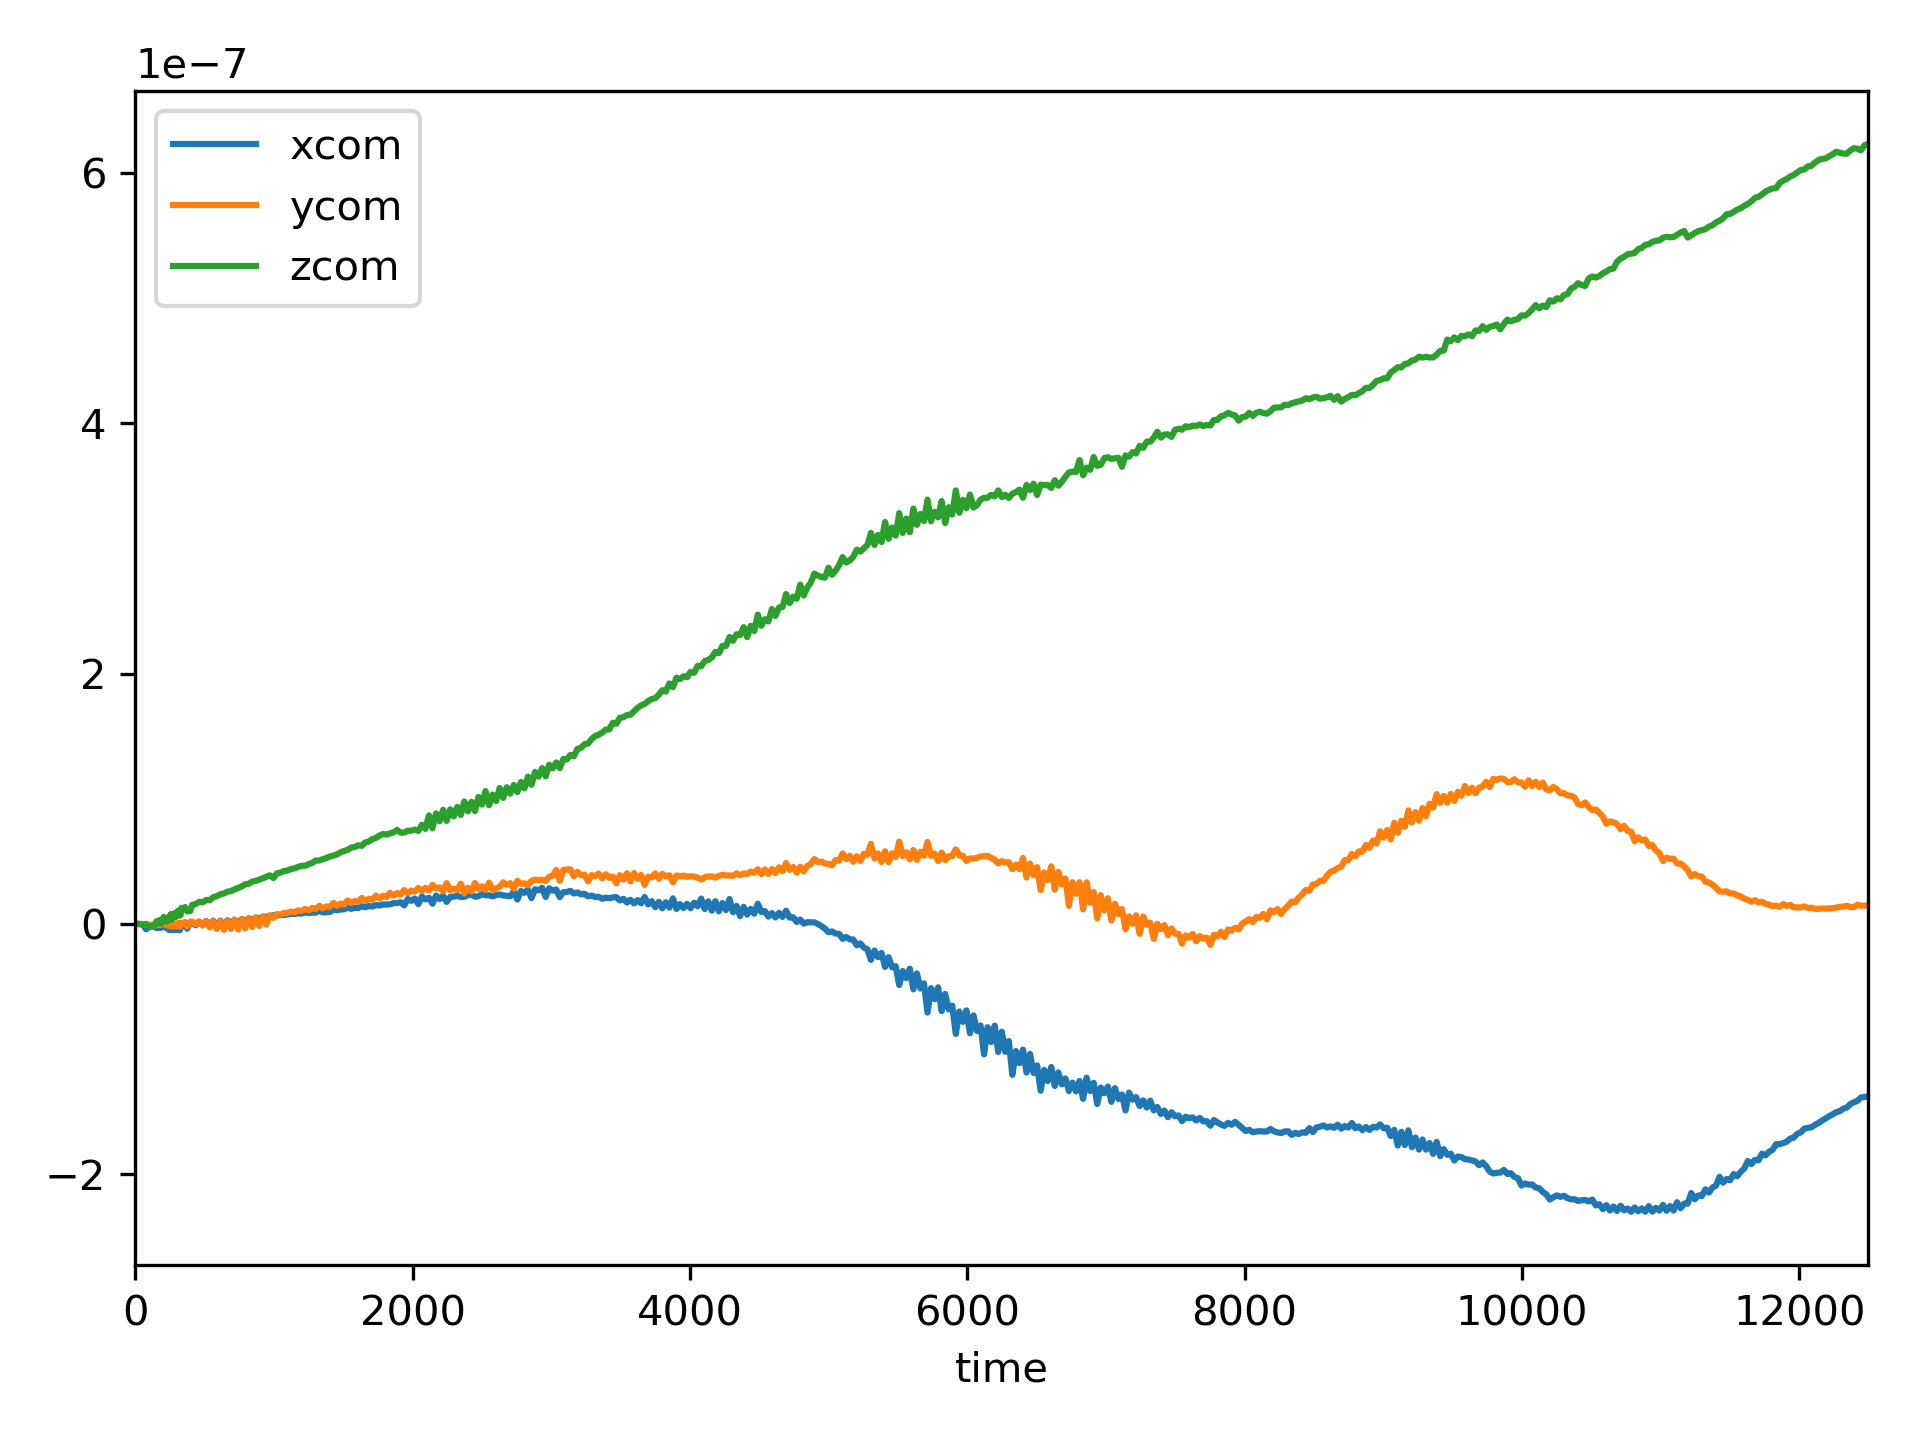
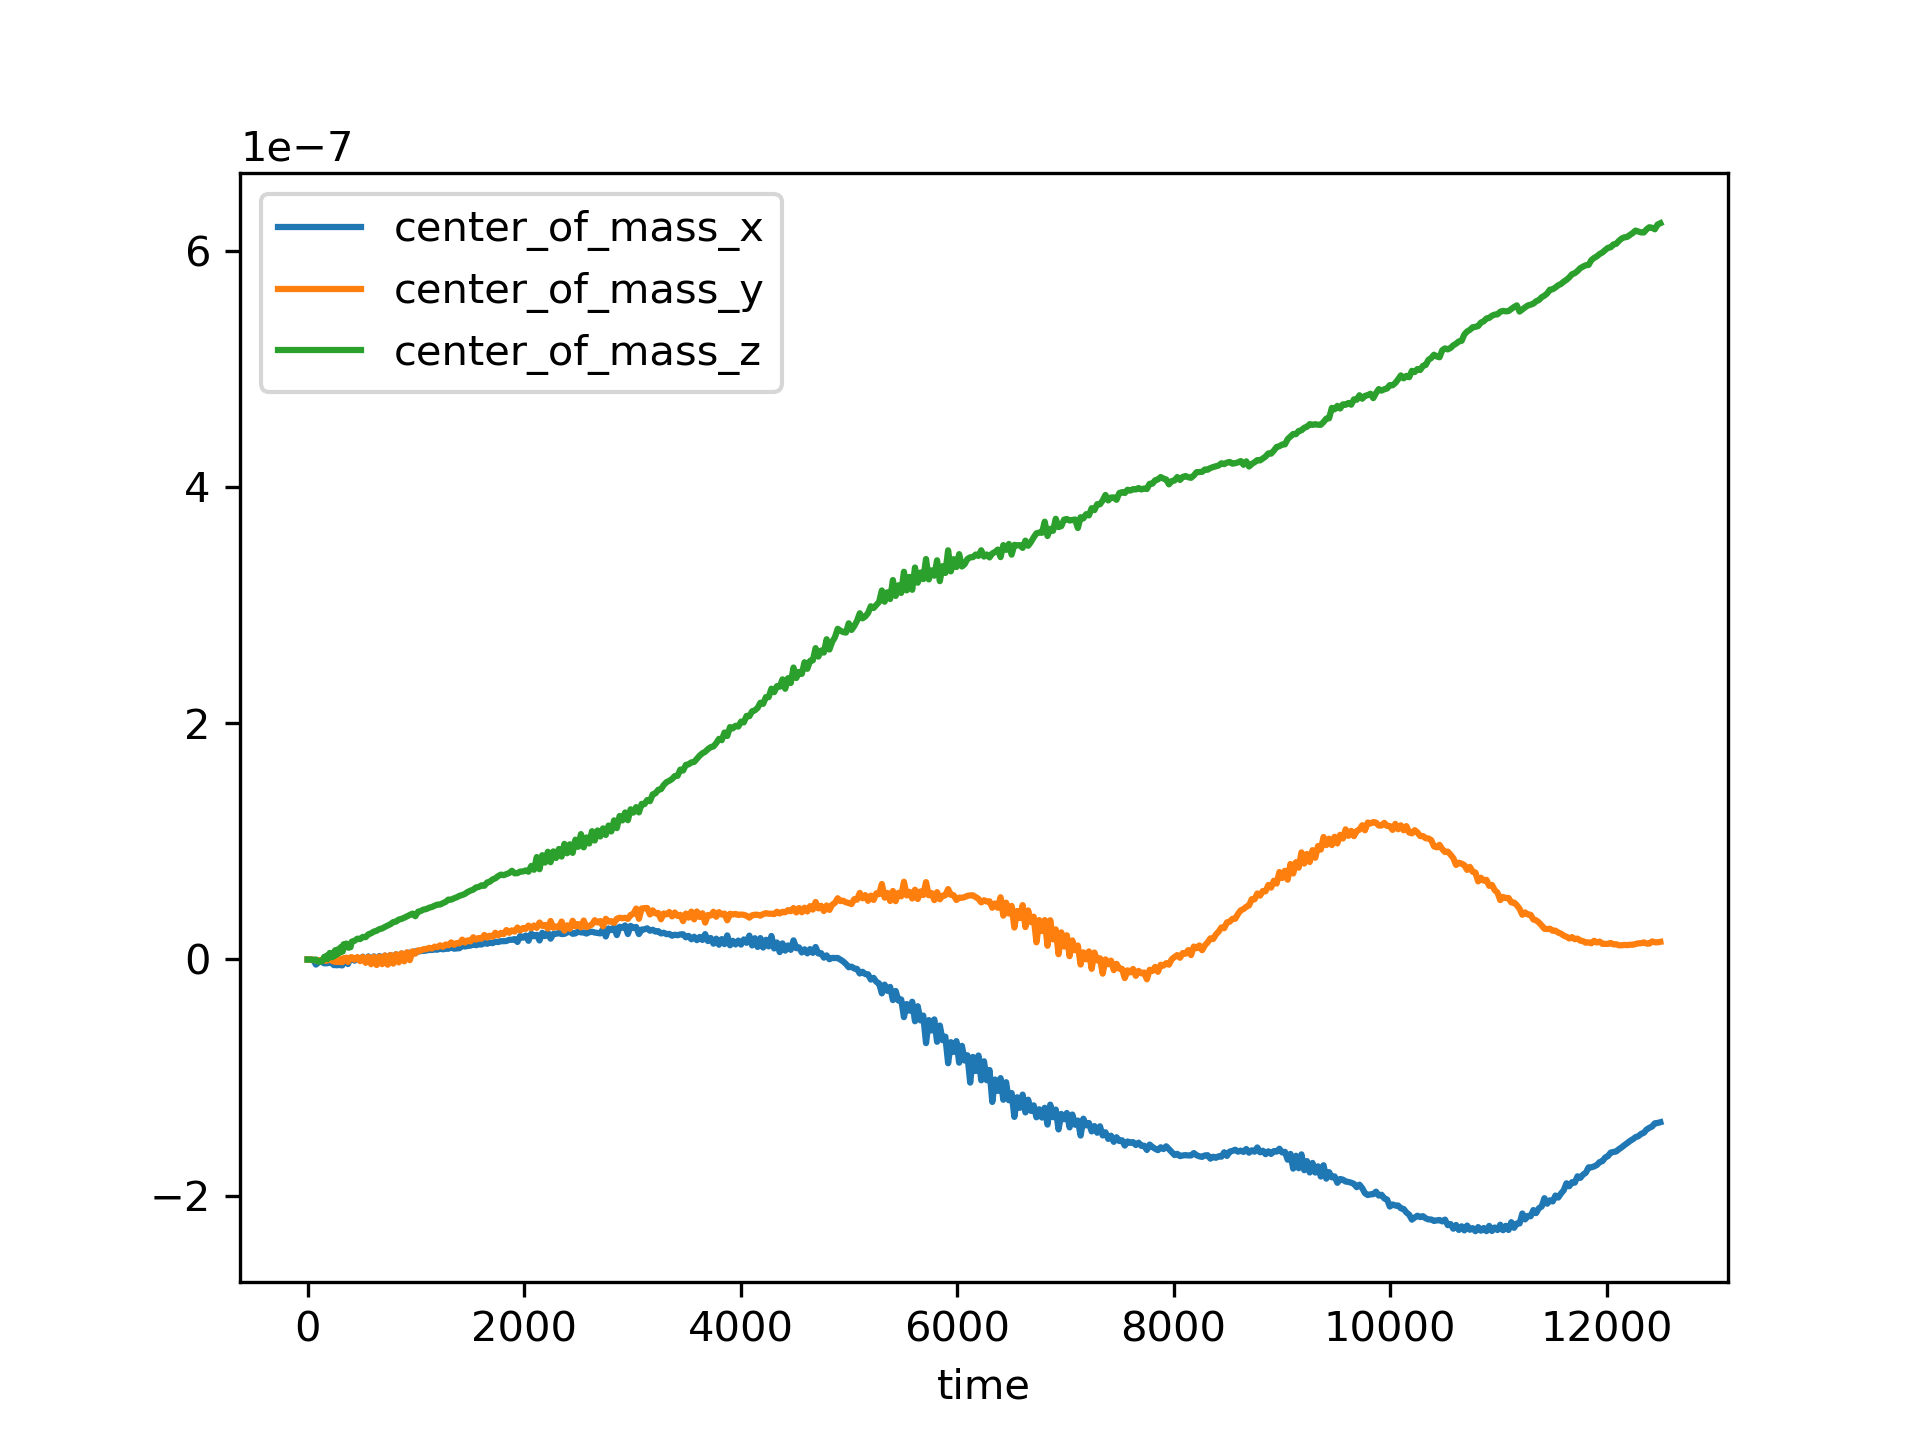
Update documentation

diff --git a/docs/source/overview.rst b/docs/source/overview.rst
@@ -92,37 +92,20 @@ To see what arrays are loaded into memory you can use the
     ('position',)
 
 Use :py:meth:`available_arrays` to see what arrays are available. Some of these
-arrays are stored on file, while others are computed as required from functions
-defined in the analysis module.
+arrays are stored on file, while others are computed as required.
 
 .. code-block:: pycon
 
     >>> snap.available_arrays()
-    ('angular_momentum',
-     'angular_velocity',
-     'azimuthal_angle',
-     'density',
-     'dust_density',
-     'dust_fraction',
-     'dust_mass',
-     'eccentricity',
-     'gas_density',
-     'gas_mass',
-     'inclination',
-     'kinetic_energy',
+    ('density',
+     'dust_to_gas_ratio',
      'mass',
-     'momentum',
-     'polar_angle',
      'position',
      'pressure',
-     'radial_distance',
-     'radial_velocity',
-     'semi_major_axis',
      'smoothing_length',
      'sound_speed',
-     'specific_angular_momentum',
-     'specific_kinetic_energy',
      'stopping_time',
+     'sub_type',
      'timestep',
      'type',
      'velocity',
@@ -271,7 +254,7 @@ You can plot columns with the pandas plotting interface.
 
 .. code-block:: pycon
 
-    ev.plot('time', ['xcom', 'ycom', 'zcom'])
+    ev.plot('time', ['center_of_mass_x', 'center_of_mass_y', 'center_of_mass_z'])
 
 The previous code produces the following figure.
 
@@ -312,22 +295,26 @@ For example, we can change the colorbar limits.
 
 .. code-block:: pycon
 
-    >>> ax.images[0].set_clim(vmin=0.0e-8, vmax=2.5e-8)
+    >>> ax.images[0].set_clim(vmax=1.5e-8)
 
 Alternatively, you can pass keyword arguments to the matplotlib functions. For
 example, we set the colormap to 'gist_heat' and set the colorbar minimum and
-maxiumum.
+maxiumum. In addition, we set the extent, i.e. the x- and y-limits.
 
 .. code-block:: pycon
 
     >>> plonk.visualize.plot(
     ...     snap=snap,
     ...     quantity='density',
-    ...     extent=(-150, 150, -150, 150),
+    ...     extent=(20, 120, -50, 50),
     ...     cmap='gist_heat',
-    ...     vmin=0.0e-8,
+    ...     vmin=1.0e-8,
     ...     vmax=2.5e-8,
     ... )
+
+.. figure:: _static/density_zoom.png
+
+    The column density zoomed around the planet.
 
 More fine-grained control can be achieved by using the full details of
 :py:func:`visualize.plot`. See the API for more details.
@@ -423,14 +410,8 @@ After calling :py:meth:`extra_quantities`:
      'angular_velocity',
      'azimuthal_angle',
      'density',
-     'dust_density',
-     'dust_fraction',
-     'dust_mass',
      'dust_to_gas_ratio',
      'eccentricity',
-     'gas_density',
-     'gas_fraction',
-     'gas_mass',
      'inclination',
      'keplerian_frequency',
      'kinetic_energy',
@@ -447,7 +428,6 @@ After calling :py:meth:`extra_quantities`:
      'smoothing_length',
      'sound_speed',
      'specific_angular_momentum',
-     'specific_kinetic_energy',
      'stokes_number',
      'stopping_time',
      'sub_type',
@@ -461,8 +441,8 @@ You can create a new, derived array on the particles as follows.
 
 .. code-block:: pycon
 
-    >>> snap['r'] = np.sqrt(snap['x'] ** 2 + snap['y'] ** 2)
-    >>> snap['r']
+    >>> snap['rad'] = np.sqrt(snap['x'] ** 2 + snap['y'] ** 2)
+    >>> snap['rad']
     array([ 55.41064337, 133.88013245, 120.11389861, ..., 121.38944087,
             92.29871306, 139.68717104])
 
@@ -492,6 +472,7 @@ method accessing an array returns dimensionless quantities as pure NumPy arrays.
 
 .. code-block:: pycon
 
+    >>> snap = plonk.load_snap(filename)
     >>> snap['x']
     array([ -24.69953214, -108.99243136,  -51.22218782, ...,   93.296599  ,
              63.75108128,    8.11639008])
@@ -530,9 +511,11 @@ module.
 
 .. code-block:: pycon
 
+    >>> snap = plonk.load_snap(filename)
     >>> prof = plonk.load_profile(snap, radius_min=10, radius_max=200)
     >>> prof
-    <plonk.Profile: 100 bins>
+    <plonk.Profile "disc_00030.h5">
+
 
 To see what profiles are loaded and what are available use the
 :py:meth:`loaded_profiles` and :py:meth:`available_profiles` methods.
@@ -603,7 +586,9 @@ them into the DataFrame.
 
 .. code-block:: pycon
 
+    >>> snap.extra_quantities()
     >>> profiles = (
+    ...    'radius',
     ...    'angular_momentum_phi',
     ...    'angular_momentum_theta',
     ...    'surface_density',
@@ -613,20 +598,20 @@ them into the DataFrame.
     ...     prof[p]
     >>> df = prof.to_dataframe(columns=profiles)
     >>> df
-        angular_momentum_phi  angular_momentum_theta  surface_density  scale_height
-    0              -2.816044                0.021775     1.430097e-09      0.114181
-    1              -2.779819                0.041433     3.224447e-09      0.320315
-    2               0.328625                0.047102     4.576087e-09      0.442617
-    3               2.992063                0.050624     5.793719e-09      0.560383
-    4               1.888552                0.053376     7.333067e-09      0.670619
-    ..                   ...                     ...              ...           ...
-    95             -1.601260                0.143154     3.513620e-10     24.574487
-    96              1.172109                0.150343     3.155834e-10     26.160013
-    97              1.802767                0.145982     2.782487e-10     25.658521
-    98             -2.236464                0.145009     2.574287e-10     25.811094
-    99              0.513205                0.163601     2.316950e-10     29.672963
+        radius  angular_momentum_phi  angular_momentum_theta  surface_density  scale_height
+    0    10.95             -0.019731                0.049709     5.468106e-09      0.532838
+    1    12.85              1.930775                0.053272     7.105422e-09      0.657642
+    2    14.75              1.285037                0.056002     9.089863e-09      0.794080
+    3    16.65             -2.958286                0.057931     1.075723e-08      0.919486
+    4    18.55             -1.947547                0.059679     1.233050e-08      1.052757
+    ..     ...                   ...                     ...              ...           ...
+    95  191.45              3.020196                0.168752     1.566369e-10     32.270189
+    96  193.35             -0.099051                0.161859     1.485992e-10     31.039857
+    97  195.25             -0.217485                0.169546     1.244152e-10     33.096242
+    98  197.15             -1.305261                0.175302     1.278899e-10     34.623090
+    99  199.05              2.642077                0.176867     1.199359e-10     35.381584
 
-    [100 rows x 4 columns]
+    [100 rows x 5 columns]
 
 Then we can use pandas plotting methods.
 

diff --git a/README.md b/README.md
@@ -123,35 +123,35 @@ Install
 
 ### Conda
 
-You can install Plonk via the package manager Conda from conda-forge.
+You can install Plonk via the package manager [Conda](https://docs.conda.io/) from [conda-forge](https://conda-forge.org/).
 
 ```bash
-conda install plonk
+conda install plonk --channel conda-forge
 ```
 
-This will install the required dependencies. Note: you may need to first add the `conda-forge` channel with `conda config --add channels conda-forge`. I also recommend strictly using conda-forge which you can do with `conda config --set channel_priority true`. For details on Conda, see <https://docs.conda.io/>.
+This will install the required dependencies.
+
+Note: You can simply use `conda install plonk` if you add the `conda-forge` channel with `conda config --add channels conda-forge`. I also recommend strictly using conda-forge which you can do with `conda config --set channel_priority true`. Both of these commands modify the Conda configuration file `~/.condarc`.
 
 ### pip
 
-You can also install Plonk via pip.
+You can also install Plonk from [PyPI](https://pypi.org/) via [pip](https://pip.pypa.io/).
 
 ```bash
 pip install plonk
 ```
 
-This should install the required dependencies. For details on pip, see
-<https://pip.pypa.io/>.
+This should install the required dependencies.
 
 Requirements
 ------------
 
-Python 3.6+ with h5py, matplotlib, numba, numpy, pandas, pint, scikit-image,
-scipy, tqdm. Installing Plonk with conda or pip will install these dependencies.
+Python 3.6+ with [h5py](https://www.h5py.org/), [matplotlib](https://www.matplotlib.org/), [numba](http://numba.pydata.org/), [numpy](https://numpy.org/), [pandas](https://pandas.pydata.org/), [pint](https://pint.readthedocs.io/), [scikit-image](https://scikit-image.org/), [scipy](https://www.scipy.org/), [tqdm](https://tqdm.github.io/). Installing Plonk with conda or pip will install these dependencies.
 
 Getting help
 ------------
 
-If you need help, please try the following, in order:
+If you need help, please try the following:
 
 1. Check the [documentation](https://plonk.readthedocs.io/).
 2. Check the built-in help, e.g. `help(plonk.load_snap)`.
@@ -173,6 +173,15 @@ Citation
 
 If you use Plonk in a scientific publication, please cite the paper published in JOSS.
 
-> [Plonk: Smoothed particle hydrodynamics analysis and visualization with Python](https://joss.theoj.org/papers/10.21105/joss.01884#)
+> [Plonk: Smoothed particle hydrodynamics analysis and visualization with Python](https://doi.org/10.21105/joss.01884)
+
+A BibTeX entry is available in [CITATION.bib](https://github.com/dmentipl/plonk/blob/master/CITATION.bib)
+
+If you use the interpolation to pixel grid component of Plonk please cite the [Splash paper](https://doi.org/10.1071/AS07022).
 
 You should also consider citing any other scientific software packages that you use.
+
+Change log
+----------
+
+The change log is available in [CHANGELOG.md](https://github.com/dmentipl/plonk/blob/master/CHANGELOG.md)

diff --git a/docs/source/quickstart.rst b/docs/source/quickstart.rst
@@ -27,7 +27,8 @@ Load a single snapshot, and access particle arrays and properties.
            [  63.75108128,   66.7446782 ,    3.30169363],
            [   8.11639008,  139.45117413,    7.55340187]])
     >>> snap.properties['time']
-    12241.485887903227
+    61485663602.558136 <Unit('second')>
+
 
 ~~~~~~~~~~~~~~~~~~~~~
 Load auxilliary files
@@ -85,7 +86,7 @@ Produce a projection image plot of density.
     ...    cmap='gist_heat',
     ... )
 
-.. image:: _static/density.png
+.. image:: _static/density2.png
 
 --------
 Analysis
@@ -104,18 +105,34 @@ Create a radial profile.
     >>> snap = plonk.load_snap('disc_00030.h5')
     >>> prof = plonk.load_profile(snap)
     >>> prof.available_profiles()
-    ('angmom_mag',
-     'angmom_phi',
-     'angmom_theta',
+    ('angular_momentum_phi',
+     'angular_momentum_theta',
+     'aspect_ratio',
      'density',
-     'eccentricity',
+     'dust_mass_001',
+     'dust_surface_density_001',
+     'dust_to_gas_ratio',
+     'gas_mass',
+     'gas_surface_density',
      'mass',
      'number',
+     'position',
+     'pressure',
      'radius',
      'scale_height',
-     'smoothing_length')
+     'size',
+     'smoothing_length',
+     'sound_speed',
+     'stopping_time',
+     'sub_type',
+     'surface_density',
+     'timestep',
+     'toomre_Q',
+     'type',
+     'velocity',
+     'velocity_divergence')
     >>> with plt.style.context('seaborn'):
-    ...     fig, ax = prof.plot('radius', 'scale_height')
+    ...     ax = prof.plot('radius', 'scale_height')
     ...     ax.set_xlabel('Radius [au]')
     ...     ax.set_ylabel('Scale height [au]')
     >>> plt.show()

diff --git a/docs/source/examples/density-profiles.rst b/docs/source/examples/density-profiles.rst
@@ -27,7 +27,7 @@ Plot a density profile for multiple snapshots.
     ...         radius_max=150 * plonk.units('au'),
     ...         n_bins=200
     ...     )
-    ...     _ = profile['density']
+    ...     _ = profile['surface_density']
     ...     profiles.append(profile)
 
     # Plot profiles
@@ -35,11 +35,11 @@ Plot a density profile for multiple snapshots.
     >>> for time, profile in zip(times, profiles):
     ...     ax.plot(
     ...         profile['radius'].to('au').m,
-    ...         profile['density'].to('g/cm^2').m,
+    ...         profile['surface_density'].to('g/cm^2').m,
     ...         label=f'{int(time)}'
     ...     )
     >>> ax.set_xlabel('Radius [au]')
-    >>> ax.set_ylabel('Density [g/cm${}^2$]')
+    >>> ax.set_ylabel('Surface Density [g/cm${}^2$]')
     >>> ax.legend(title='Time [yr]', loc='best')
 
     >>> plt.show()

diff --git a/docs/source/index.rst b/docs/source/index.rst
@@ -50,6 +50,9 @@ JOSS.
 For BibTeX entry, see
 `CITATION.bib <https://github.com/dmentipl/plonk/blob/master/CITATION.bib>`_.
 
+If you use the interpolation to pixel grid component of Plonk please cite the
+`Splash paper <https://doi.org/10.1071/AS07022>`_.
+
 ----------
 Change log
 ----------

diff --git a/docs/source/examples/side-by-side.rst b/docs/source/examples/side-by-side.rst
@@ -14,7 +14,7 @@ Plot dust and gas side-by-side.
 
     # Specify dust and gas subsnaps
     >>> gas = snap['gas']
-    >>> dust = snap['dust']
+    >>> dust = snap['dust'][0]
     >>> extent = (-150, 150, -150, 150)
 
     # Make plot
